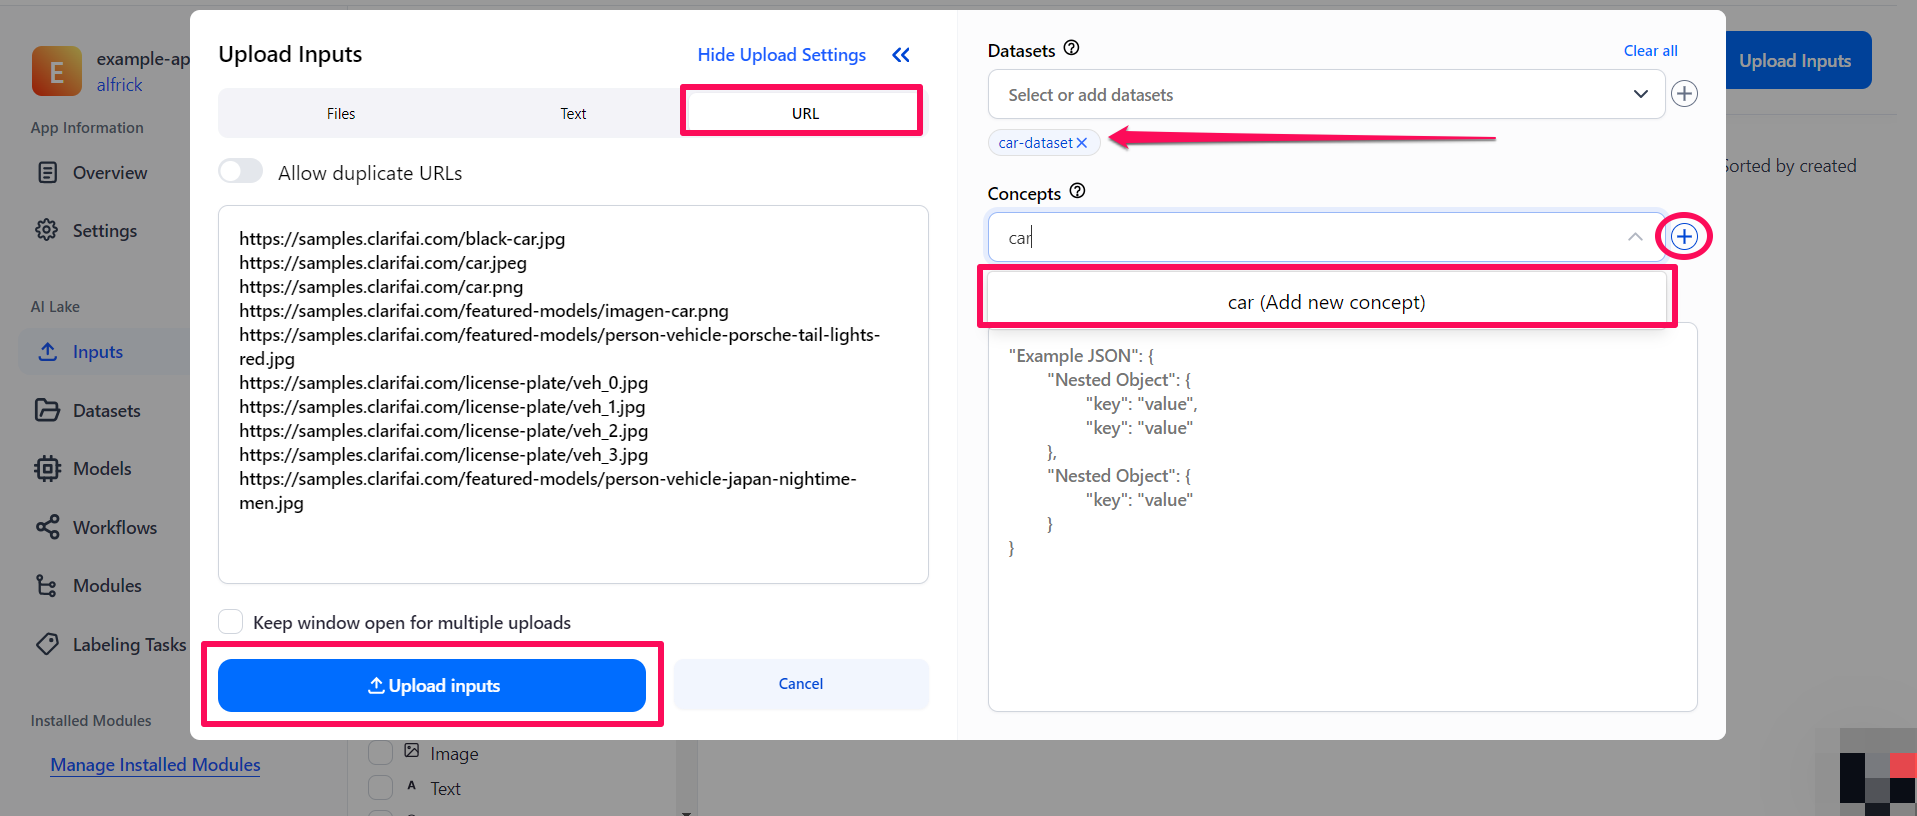
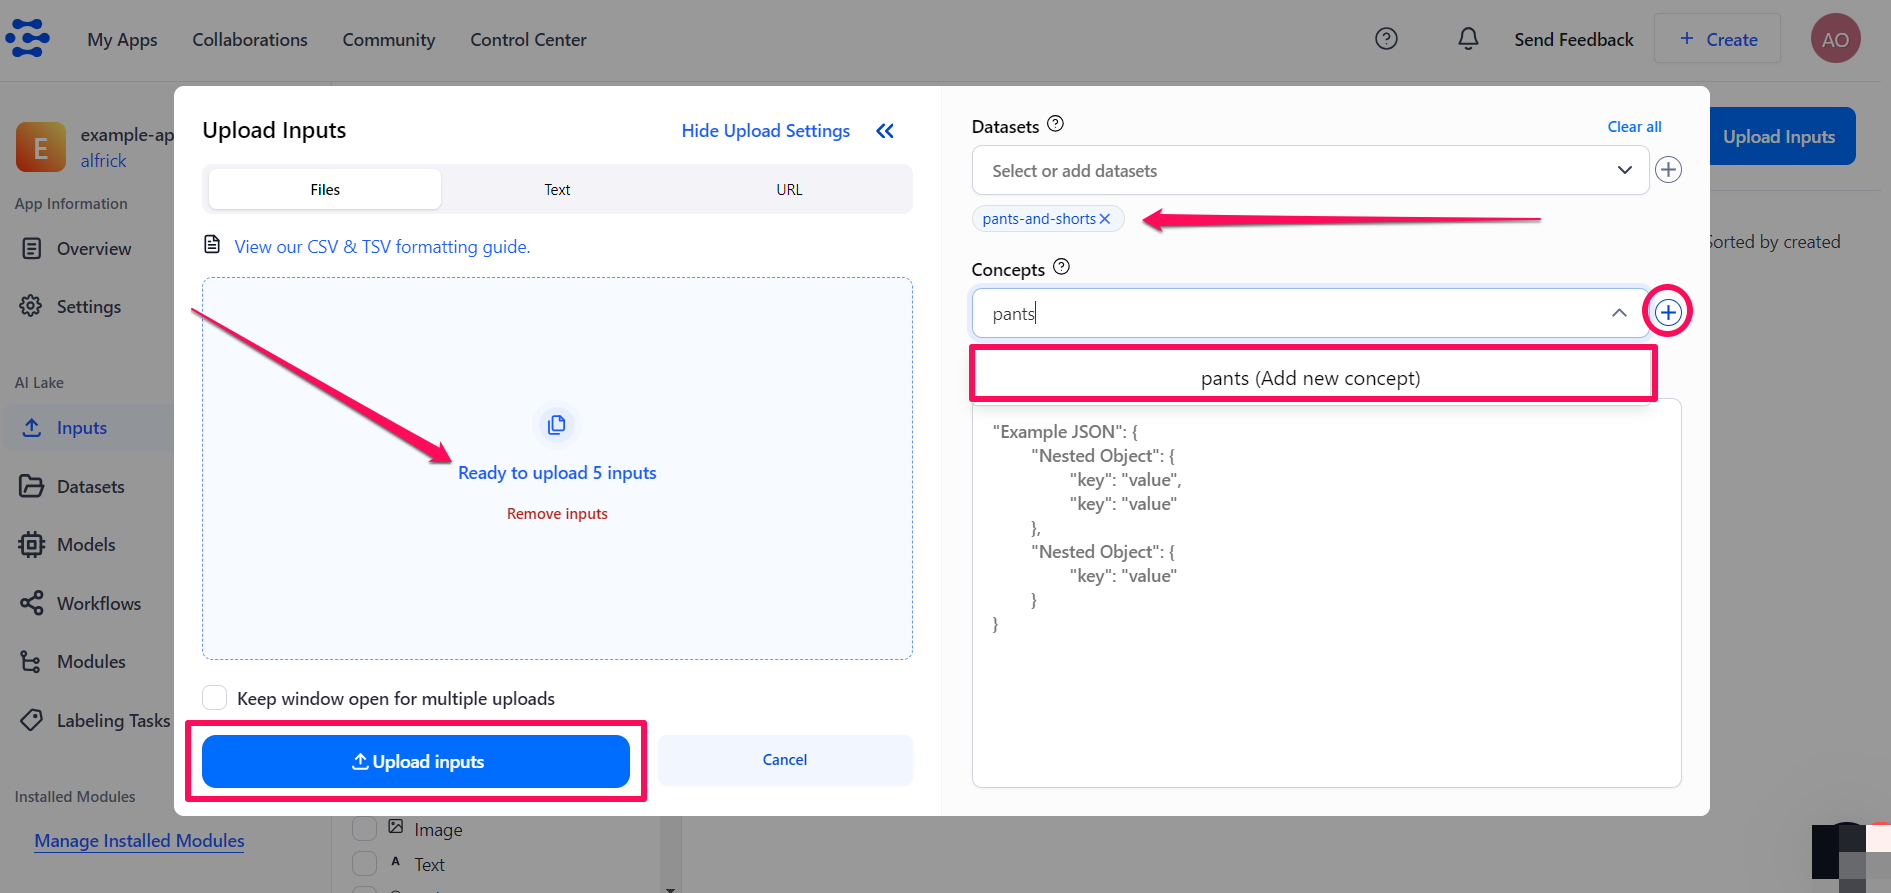
updated model upload

diff --git a/docs/portal-guide/model/pcustom-model-walkthrough.md b/docs/portal-guide/model/pcustom-model-walkthrough.md
@@ -3,9 +3,9 @@ description: Learn how to use transfer learning to create your own custom model
 sidebar_position: 2
 ---
 
-# Transfer Learn Custom Models
+# Create Models Using Transfer Learning
 
-**Learn how to use transfer learning to create your own custom model**
+**Learn how to use transfer learning to create your own custom models**
 <hr />
 
 Transfer learning is a model training technique that utilizes the feature representations of a pre-trained model, which has been trained on vast amounts of data. This allows you to build new models more efficiently by reducing the need for extensive training from scratch and enabling faster learning with minimal data.
@@ -30,9 +30,14 @@ When creating the application, go with the default Image/Video option as the pri
 
 :::
 
-### Step 2: Add and Annotate Inputs
+### Step 2: Create a Dataset
 
-Next, you need to upload data, such as images, to the app you've created. The input data, labeled with concepts, is what will be used for training your model. Training helps your model to “learn” from the annotated concepts on your inputs so that it can be able to recognize them. 
+[Click here](https://docs.clarifai.com/portal-guide/datasets/create-get-update-delete/#create-a-new-dataset) to learn how to create a dataset that will store the inputs. 
+
+
+### Step 3: Add and Annotate Inputs
+
+Next, you need to upload data to the app you've created. The input data, labeled with concepts, is what will be used for training your model. Training helps your model to “learn” from the annotated concepts on your inputs so that it can be able to recognize them. 
 
 To get started with transfer learning, you don't need a large number of images. We recommend beginning with just 10 and adding more as needed. 
 
@@ -44,46 +49,35 @@ To upload inputs, select the **Inputs** option in the collapsible left sidebar. 
 
 ![upload inputs](/img/community_2/custom_model_upload_inputs.png)
 
-The small window that pops up allows you to upload your inputs — either by providing publicly accessible URLs or by uploading them directly from your local device.
+The small window that pops up allows you to upload your inputs — either by providing publicly accessible URLs or by uploading them directly from your local device. For this illustration, we'll upload the images of pants and shorts from a local device. 
 
 ![upload inputs window](/img/community_2/custom_models_upload_inputs_window.png)
 
-For this illustration, let's select the **URL** tab and provide the following images of cars:
+- Use the **Select or add datasets** search box to select the dataset you previously created for storing the uploaded inputs. 
 
-```text
-https://samples.clarifai.com/black-car.jpg
-https://samples.clarifai.com/car.jpeg
-https://samples.clarifai.com/car.png
-https://samples.clarifai.com/featured-models/imagen-car.png
-https://samples.clarifai.com/featured-models/person-vehicle-porsche-tail-lights-red.jpg
-https://samples.clarifai.com/license-plate/veh_0.jpg
-https://samples.clarifai.com/license-plate/veh_1.jpg
-https://samples.clarifai.com/license-plate/veh_2.jpg
-https://samples.clarifai.com/license-plate/veh_3.jpg
-https://samples.clarifai.com/featured-models/person-vehicle-japan-nightime-men.jpg
-```
+- To label the inputs with the `pants` concept, click the plus (**+**) sign next to the **Select or add concepts** search box. Then, type the new concept name in the search box. The new name you've typed will appear underneath the search box. Click the **Add new concept** button to create the concept. Once created, the concept will be listed underneath the search box. 
 
-To label the inputs with the `car` concept, click the plus (**+**) sign next to the **Select or add concepts** search box. Then, type the new concept name in the search box. The new name you've typed will appear underneath the search box. Click the **Add new concept** button to create the concept. Once created, the concept will be listed underneath the search box. 
+- Click the **Upload inputs** button at the bottom of the pop-up window to finalize uploading your annotated inputs to the dataset. 
 
-Similarly, click the plus (**+**) sign next to the **Select or add datasets** search box and create a dataset that will store the inputs. 
+- Similarly, upload the images of shorts to the dataset you previously created, and label them with the `shorts` concept. 
 
-Click the **Upload inputs** button at the bottom of the pop-up window to finalize uploading your annotated inputs to the dataset. 
-
-Next, go to the individual page of the dataset and create a version for it by clicking the **New version** button. This bookmarks the state of your data so that you can apply a specific version for training your custom model. 
-
-![](/img/community_2/custom_model_dataset_version.png)
+![](/img/community_2/custom_models_upload_inputs_window_2.png)
 
 :::tip
 
-- [Click here](https://docs.clarifai.com/portal-guide/annotate/create-get-update-delete) to learn more about labeling inputs.
-
-- [Click here](https://docs.clarifai.com/portal-guide/datasets/create-get-update-delete/) to learn more about datasets. 
+[Click here](https://docs.clarifai.com/portal-guide/annotate/create-get-update-delete) to learn more about labeling inputs.
 
 :::
 
-### Step 3: Choose a Model Type
+### Step 4: Update Dataset
 
-Once you've added images that contain the concept you want to train, you can now proceed to create your custom model.
+Next, go to the individual page of your dataset and create a version for it by clicking the **New version** button. This bookmarks the state of your data so that you can apply a specific version for training your custom model. 
+
+![](/img/community_2/custom_model_dataset_version.png)
+
+### Step 5: Choose a Model Type
+
+Once you've added images that contain the concept you want to train for, you can now proceed to create your custom model.
 
 To begin, select the **Models** option in the collapsible left sidebar. On the ensuing page, click the **Add Model** button in the upper-right corner.
 
@@ -93,37 +87,39 @@ In the pop-up window, choose the **Build a Custom Model** option, then click **C
 
 You’ll be redirected to a page where you can choose the type of model you want to create 
 
-For this example, let’s choose the **Transfer Learn** model type. 
+Let’s choose the **Transfer Learn** model type. 
 
 ![](/img/community_2/custom_model_create_new_model.png)
 
-### Step 4: Create a Model 
+### Step 6: Create a Model 
 
 On the ensuing page, provide a unique ID and click the **Continue to Configure Model** button to create your model.
 
 ![](/img/community_2/custom_model_create_new_model-2.png)
 
-### Step 5: Set Up the Model
+### Step 7: Set Up the Model
 
 Next, you need to set up the model for training by providing the required details. 
 
 ![Create model page](/img/community_2/custom_model_create_model_page.png)
 
-- **Dataset** — Select a dataset to use to train the model. For this example, let's select the dataset we previously created that has the images of cars — alongside its version. 
+- **Dataset** — Select a dataset to use to train the model. For this example, let's select the dataset we previously created — alongside its version. 
 - **Base Embed Model** — You can select the base model to be used for embeddings. For this example, let's go with the default option.
-- **Concepts** — Select the concepts that you want the model to predict. For this example, let's choose the `car` concept, which we previously assigned as the label when uploading the training data.
-- **Concepts Mutually Exclusive** — Let's go with the default option as we're only training on a single concept. 
+- **Concepts** — Select the concepts that you want the model to predict. For this example, let's choose the `pants` and `shorts` concepts. 
+- **Concepts Mutually Exclusive** — Let's turn the button on to indicate no overlap between any of the model concepts. 
 - **Enrich Dataset** — If enabled and set to `Automatic`, this option enhances your model by incorporating supplemental data from pre-built datasets of negative embeddings, helping to improve accuracy. Alternatively, setting it to `Disabled` will exclude the use of negative embeddings, regardless of their availability.
 For this example, we'll proceed with the default `Automatic` option.
 - **Inference Settings (optional)** — Optionally, you can configure the provided inference settings for your model. 
 
 After configuring the settings, click the **Train Model** button to begin training your custom model.
 
-### Step 6: Use Your Custom Model
+### Step 8: Use Your Custom Model
 
 You'll be redirected to the created model's page. Once the visual classifier model is trained, which normally takes a few seconds, you can put it to work. 
 
 For example, to use it for making a [prediction](https://docs.clarifai.com/portal-guide/ppredict/), click the blue **Try your own images or videos** button. A small window will pop up that allows you to upload an input and see its prediction probabilities on the right side of the page. 
+
+![Predict with custom model](/img/community_2/custom_model_create_model_page-2.png)
 
 That's it!
 

diff --git a/docs/sdk/advance-model-operations/model-upload.md b/docs/sdk/advance-model-operations/model-upload.md
@@ -18,7 +18,7 @@ Let’s demonstrate how you can successfully upload different types of models to
 
 - This new feature is still in [private preview](https://docs.clarifai.com/product-updates/changelog/release-types). If you'd like to test it out and provide feedback, please request access [here](https://forms.gle/MSx7QNxmug2oFZYD6).
 
-- This new upload experience is compatible with the latest [`clarifai`](https://github.com/Clarifai/clarifai-python) Python package, starting from version 10.9.1.
+- This new upload experience is compatible with the latest [`clarifai`](https://github.com/Clarifai/clarifai-python) Python package, starting from version 10.9.2.
 
 - If you prefer the previous upload method, which is supported up to version 10.8.4, you can refer to the documentation [here](/others/old_model_upload_method.pdf).
 
@@ -42,7 +42,9 @@ pip install --upgrade clarifai
 ```
 ### Environment Set Up
 
-Authenticate your connection to the Clarifai platform by setting your `CLARIFAI_PAT `(Personal Access Token) as an environment variable. 
+Before proceeding, ensure that the `CLARIFAI_PAT` (Personal Access Token) environment variable is set. You can generate the PAT key in your Personal Settings page by navigating to the [Security section](https://clarifai.com/settings/security).
+
+This token is essential for authenticating your connection to the Clarifai platform.
 
 ```text
 export CLARIFAI_PAT=YOUR_PERSONAL_ACCESS_TOKEN_HERE
@@ -191,11 +193,6 @@ To run your model locally, use the following command:
 python -m clarifai.runners.models.model_run_locally --model_path <model_directory_path>
 ```
 
-:::tip
-
-You can add a dot (`.`) to the model path like this: `python -m clarifai.runners.models.model_run_locally --model_path .` This means you're specifying the current directory as the model path – the command will look for the model files (such as `model.py`, `requirements.txt`, and `config.yaml`) within the directory where you're executing the command. 
-:::
-
 :::warning
 
 Ensure your local environment has sufficient memory and compute resources to load and run the model for testing.
@@ -234,6 +231,12 @@ import SpeechRecognitionRequirements from "!!raw-loader!../../../code_snippets/p
 import SpeechRecognitionConfig from "!!raw-loader!../../../code_snippets/python-sdk/model-upload/speech_recognition_config.yaml";
 
 ## Examples
+
+:::info
+
+You can find various model upload examples [here](https://github.com/Clarifai/examples/tree/main/models/model_upload), which demonstrate different use cases and optimizations. 
+
+:::
 
 ### Image Classifier
 
